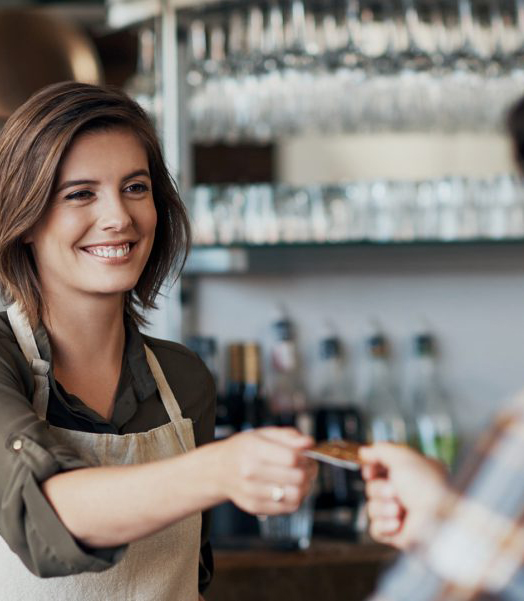
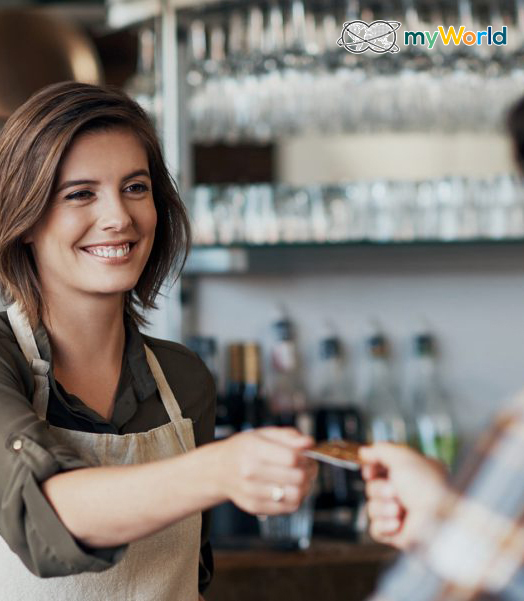
corrections

Changed region(s): [[0.6412, 0.03, 0.9771, 0.0899]]

diff --git a/myWorld.html b/myWorld.html
@@ -19,29 +19,29 @@
     <link rel="icon" href="style/images/fbc icon.ico">
 
 
-    <title>ФБ КОМПАНИ | За нас!</title>
+    <title>ФБ КОМПАНИ</title>
 </head>
 
 <body>
 
     <!-- Background -->
 
-    <img src="./style/images/about us.png" alt="background" class="background">
+    <img src="./style/images/myWorld.jpg" alt="background" class="background">
 
-    <img src="./style/images/about us small.png" alt="background" class="background-phone">
-    
+    <img src="" alt="little" class="background-phone">
+
     <!-- Navbar -->
 
     <header>
-        <nav class="navbar-whole ">
-            <a href="index.html"> <img  src="./style/images/FBcompany logo original.png" alt="logo" class="logo"></a>
+        <nav class="navbar-whole">
+            <a href="index.html"> <img src="./style/images/FBcompany logo original.png" alt="logo" class="logo"></a>
             <ul class="navbar-links">
                 <li class="menu"><a class="a" href="index.html">ПОЧЕТНА</a></li>
                 <li class="menu"><a class="a" href="za nas.html">ЗА НАС</a></li>
                 <li class="menu"><a class="a" href="osiguruvanje.html">ОСИГУРУВАЊЕ</a></li>
-                <li class="menu"><a class="a" href="#coll-id">CASHBACK</a></li>
-                <li class="menu"><a href="kontakt.html"><button
-                    type="button" class="btn btn-outline-light navbutton text-center">КОНТАКТ</button></a>
+                <li class="menu"><a class="a" href="#coll-id">myWorld</a></li>
+                <li class="menu"><a href="kontakt.html"><button type="button"
+                            class="btn btn-outline-light text-center navbutton">КОНТАКТ</button></a></li>
             </ul>
 
 
@@ -77,7 +77,9 @@
                 <li class="menu-toggle"><a class="a-toggle" href="osiguruvanje.html">ОСИГУРУВАЊЕ</a></li> <br> <br>
                 <li class="menu-toggle"><a class="a-toggle" href="#coll-id">CASHBACK</a></li> <br> <br>
                 <li class="menu-toggle"><a class="a-toggle" href="kontakt.html"><a href="kontakt.html"><button
-                    type="button" class="btn btn-outline-light text-center navbuttonphone">КОНТАКТ</button></a></a> <br> <br>
+                                type="button"
+                                class="btn btn-outline-light text-center navbuttonphone">КОНТАКТ</button></a></a> <br>
+                    <br>
             </div>
         </ul>
     </div>
@@ -85,35 +87,41 @@
 
 
 
+    <h1>myWorld</h1>
+
+    <p>myWorld нуди привлечни придобивки од купување како што се Cashback и Shopping Points на купувачите кои сакаат да
+        заштедат пари кога купуваат локално, како и преку Интернет ширум светот. Покрај тоа, myWorld обезбедува ефикасни
+        и иновативни програми за лојалност на клиентите кои им овозможуваат на деловните субјекти да станат дел од овој
+        шопинг свет. myWorld моментално е застапен на 51 пазар. 15 милиони купувачи користат безброј придобивки од
+        купување со околу 150.000 партнери ширум светот.
+    <br>
+    <br>
+Станете член на myWorld бесплатно и добивајте до 5% Cashback и Shopping Points за секое Ваше купување.
+</p>
 
 
 
 
-    <div class="coll-za-nas">
-
-        <div class="cb">
-            <h1 class="cb-heading-zanas">Добредојдовте во<br><strong class="cashback">ФБ КОМПАНИ!</strong>
-            </h1>
-            <br>
-            <p class="cb-p">ФБ Компани е компанија за промоции на секаков вид на полиси за животно и неживотно
-                осигурување.
-<br>
-                Фокус на нашата работа се нашите клиенти, затоа секојдневно создаваме посигурна иднина за истите и
-                формираме база на лојални клиенти.
-<br>
-                Во ,,ФБ Компани’’ посветено работиме на одржување на сигурноста при вашиот избор на осигурителна полиса,
-                нашата главна цел е да ви обезбедиме стручна помош преку анализирање на ризиците и давање на стручен
-                совет за заедно да дојдеме до најсоодветното решение за вас кога станува збор за осигурување од било
-                каков вид. Ги следиме во чекор сите новитети и потреби на осигурителниот пазар, се со цел поуспешно и
-                поефикасно работење на компанијата и задоволување на потребите на нашите клиенти.
-            </p>
 
 
-        </div>
 
-        <img src="./style/images/fb logo mockup cropped.jpg" alt="fb mockup" class="cashback-photo">
 
-    </div>
+
+
+
+
+
+
+
+
+
+
+
+
+
+
+
+
 
 
 
@@ -135,18 +143,19 @@
     <!-- Section 4 Social Media -->
 
 
-<hr class="hr">
 
-  <div class="social-media">
+
+    <div class="social-media">
         <center>
             <h3>Заследете не!</h3>
-        </center>
+
     </div>
- <div class="social-icons">
+    </center>
+    <div class="social-icons">
         <center>
             <ul>
-                <li class="list"><a href=""></a><img class="social-img" src="./style/images/social icons/instagram.png"
-                        alt="instagram-ico"></li>
+                <li class="list insta"><a href=""></a><img class="social-img"
+                        src="./style/images/social icons/instagram.png" alt="instagram-ico"></li>
                 <li class="list"><a href="https://www.facebook.com/fbkompani" target="_blank"><img class="social-img"
                             src="./style/images/social icons/facebook.png" alt="facebook-ico"></a></li>
                 <li class="list"><a
@@ -161,15 +170,18 @@
 
     <hr class="hr">
 
+
+
     <footer>
 
         <center>
-            <p>Copyright © | Andrej Boshkovski | 2021</p>
+            <p>All rights reserved | Andrej Boshkovski | 2021</p>
         </center>
     </footer>
 
 
-<!-- Messenger Chat Plugin Code -->
+
+    <!-- Messenger Chat Plugin Code -->
     <div id="fb-root"></div>
       <script>
         window.fbAsyncInit = function() {
@@ -195,6 +207,8 @@
       </div>
 
 
+    <script src="https://ajax.googleapis.com/ajax/libs/jquery/3.6.0/jquery.min.js"></script>
+
     <script src="https://code.jquery.com/jquery-3.2.1.slim.min.js"
         integrity="sha384-KJ3o2DKtIkvYIK3UENzmM7KCkRr/rE9/Qpg6aAZGJwFDMVNA/GpGFF93hXpG5KkN" crossorigin="anonymous">
     </script>
@@ -205,9 +219,9 @@
         integrity="sha384-JZR6Spejh4U02d8jOt6vLEHfe/JQGiRRSQQxSfFWpi1MquVdAyjUar5+76PVCmYl" crossorigin="anonymous">
     </script>
 
-    <script src="https://ajax.googleapis.com/ajax/libs/jquery/3.6.0/jquery.min.js"></script>
-    <script src="contact.js"></script>
     <script src="app/app.js"></script>
+
+
 </body>
 
 </html>

diff --git a/index.html b/index.html
@@ -39,7 +39,7 @@
                 <li class="menu"><a class="a" href="index.html">ПОЧЕТНА</a></li>
                 <li class="menu"><a class="a" href="za nas.html">ЗА НАС</a></li>
                 <li class="menu"><a class="a" href="osiguruvanje.html">ОСИГУРУВАЊЕ</a></li>
-                <li class="menu"><a class="a" href="#coll-id">CASHBACK</a></li>
+                <li class="menu"><a class="a" href="myWorld.html">myWorld</a></li>
                 <li class="menu"><a href="kontakt.html"><button
                     type="button" class="btn btn-outline-light text-center navbutton">КОНТАКТ</button></a></li>
             </ul>
@@ -158,22 +158,21 @@
         <div class="cb" id="cb1">
            <h1 class="cb-heading"><strong>CASHBACK</strong><br> со секое купување</h1>
             <br>
-            <p class="cb-p">Со секое купување во ФБ Компани добивате можност да ја искористите картичката на Cashback
-                World и да добиете пари
-                назад (кешбек) за сите видови осигурувања за кои тоа е дозволено со закон.
+            <p class="cb-p">Со секое купување во ФБ Компани добивате можност да ја искористите картичката на myWorld и да добиете пари
+                назад (кешбек) и други бенефити за сите видови осигурувања за кои тоа е дозволено со закон.
                 <br>
-                Cashback World картичката е со меѓународна важност и покрај во ФБ Компани можете да ги искористите
+                myWorld картичката е со меѓународна важност и покрај во ФБ Компани можете да ги искористите
                 предностите
-                кај трговски партнери од 47 земји низ целиот свет.
+                кај трговски партнери од над 50 земји низ целиот свет.
                 <br>
                 <br>
-                Сѐ уште не поседувате <strong>CashbackWorld</strong> картичка?
+                Сѐ уште не поседувате <strong>myWorld</strong> картичка?
                 Контактирајте не и ние ке ви изработиме потполно бесплатно и без никакви обврски.
             </p>
 
             <a href="kontakt.html"><button type="button" class="btn btn-outline-dark cbbtn">Повеќе инфо</button></a>
             <a href="https://www.myworld.com/mk/cashback/mk-mk/36300588-fb-kompani" target="_blank"><button
-                    type="button" class="btn btn-dark cbbtn">CahbackWorld страна</button></a>
+                    type="button" class="btn btn-dark cbbtn">myWorld страна</button></a>
 
         </div>
 
@@ -222,30 +221,30 @@
 
 
 
-    <!-- Messenger Chat Plugin Code -->
-
+<!-- Messenger Chat Plugin Code -->
     <div id="fb-root"></div>
-    <script>
-        window.fbAsyncInit = function () {
-            FB.init({
-                xfbml: true,
-                version: 'v10.0'
-            });
+      <script>
+        window.fbAsyncInit = function() {
+          FB.init({
+            xfbml            : true,
+            version          : 'v10.0'
+          });
         };
 
-        (function (d, s, id) {
-            var js, fjs = d.getElementsByTagName(s)[0];
-            if (d.getElementById(id)) return;
-            js = d.createElement(s);
-            js.id = id;
-            js.src = 'https://connect.facebook.net/en_US/sdk/xfbml.customerchat.js';
-            fjs.parentNode.insertBefore(js, fjs);
+        (function(d, s, id) {
+          var js, fjs = d.getElementsByTagName(s)[0];
+          if (d.getElementById(id)) return;
+          js = d.createElement(s); js.id = id;
+          js.src = 'https://connect.facebook.net/en_US/sdk/xfbml.customerchat.js';
+          fjs.parentNode.insertBefore(js, fjs);
         }(document, 'script', 'facebook-jssdk'));
-    </script>
+      </script>
 
-    <!-- Your Chat Plugin code -->
-    <div class="fb-customerchat" attribution="page_inbox" page_id="1618305578414182">
-    </div>
+      <!-- Your Chat Plugin code -->
+      <div class="fb-customerchat"
+        attribution="page_inbox"
+        page_id="1618305578414182">
+      </div>
 
 
     <script src="https://ajax.googleapis.com/ajax/libs/jquery/3.6.0/jquery.min.js"></script>

diff --git a/style/style.css b/style/style.css
@@ -45,6 +45,7 @@ max-width: 100%;
 .navbutton{
      position: absolute;
      top: 22px;
+     left: 80%;
      margin-left: auto;
      margin-right: auto;
      font-size: 14px;
@@ -149,7 +150,7 @@ li:nth-child(5) {
 
     position: absolute;
     left: 80%;
-    padding-top: 15px;
+    padding-top: 21px;
     cursor: pointer;
     z-index: 100;
     
@@ -176,6 +177,7 @@ li:nth-child(5) {
     width: 25px;
     background-color:white;
     margin-top: 5px;
+    
     
 
 }
@@ -207,7 +209,7 @@ li:nth-child(5) {
     position: fixed;
     top: 0;
     right: 0;
-    width: 40%;
+    width: 50%;
     height: 100%;
     background-color: black;
     opacity: 95%;

diff --git a/kontakt.html b/kontakt.html
@@ -245,7 +245,7 @@
     </footer>
 
 
-    <!-- Messenger Chat Plugin Code -->
+   <!-- Messenger Chat Plugin Code -->
     <div id="fb-root"></div>
       <script>
         window.fbAsyncInit = function() {
